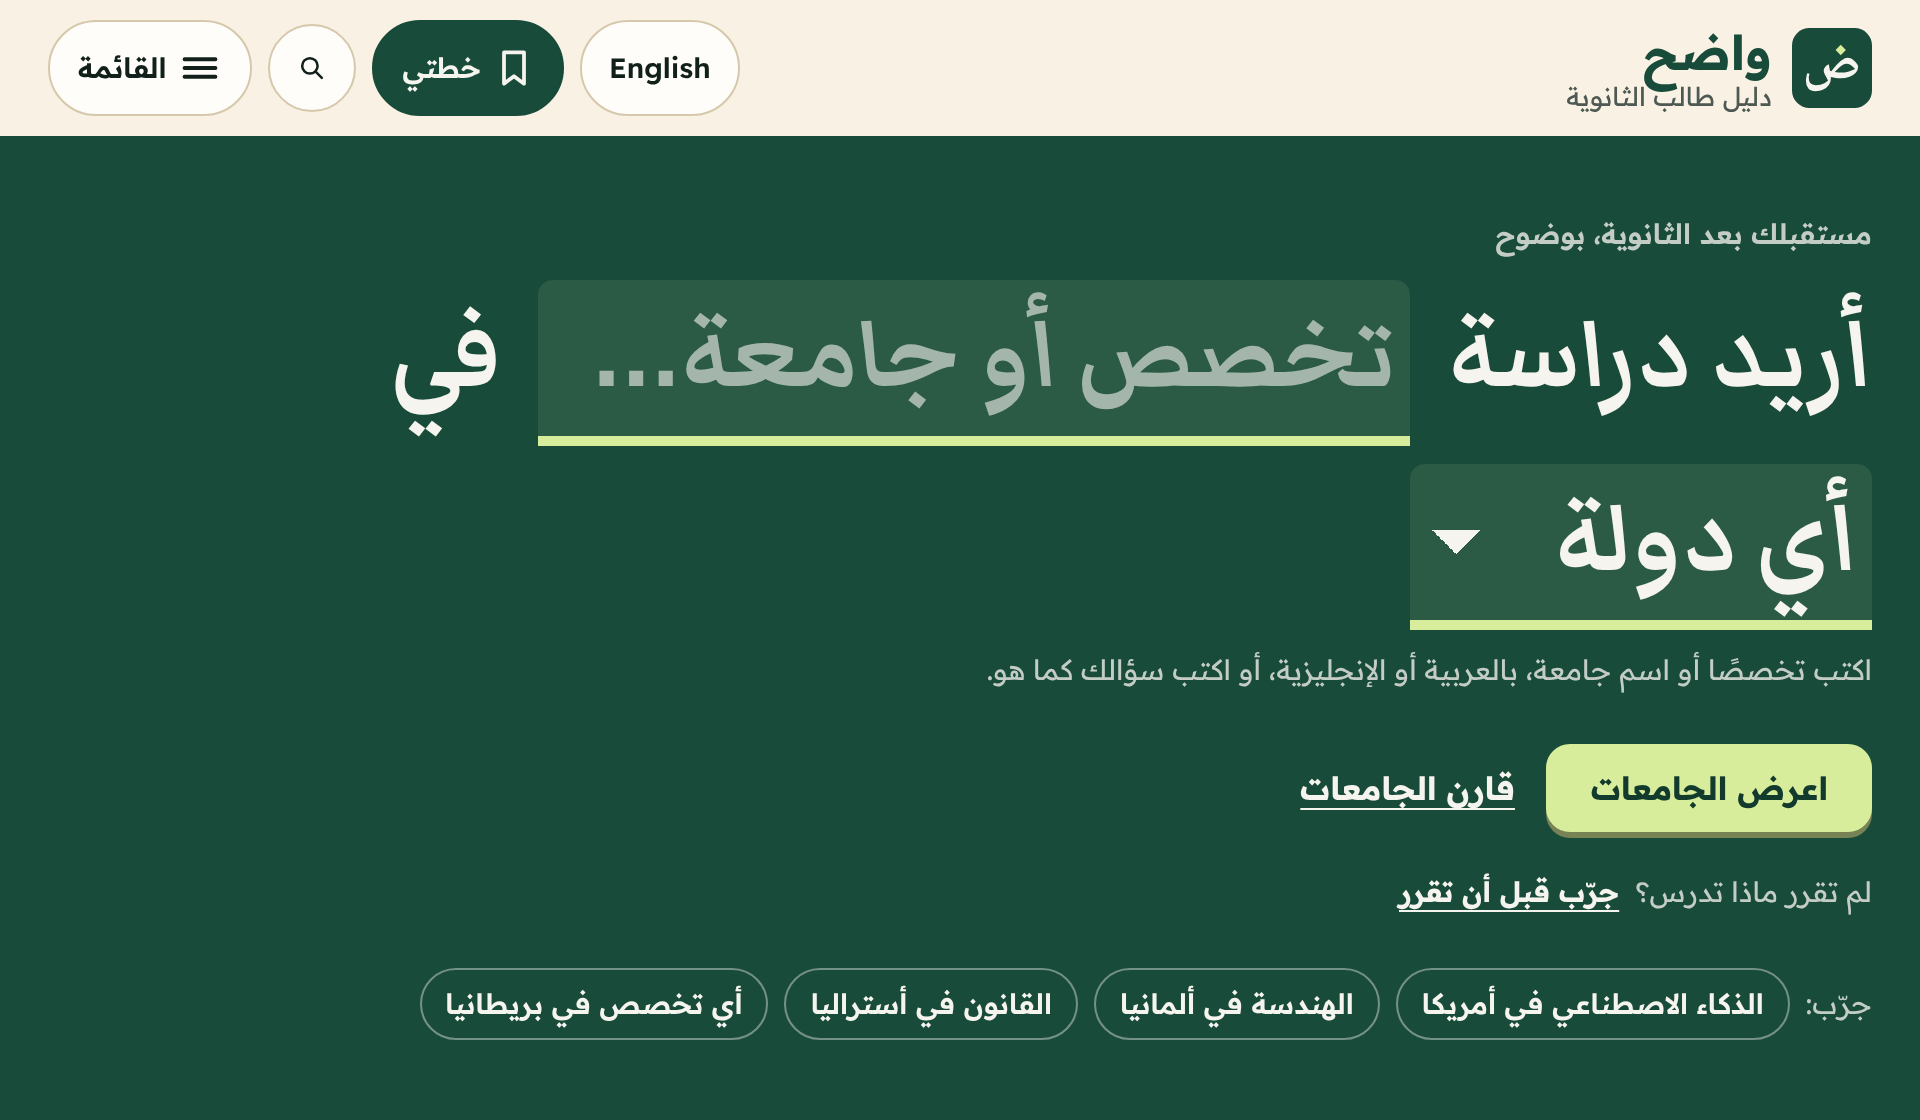
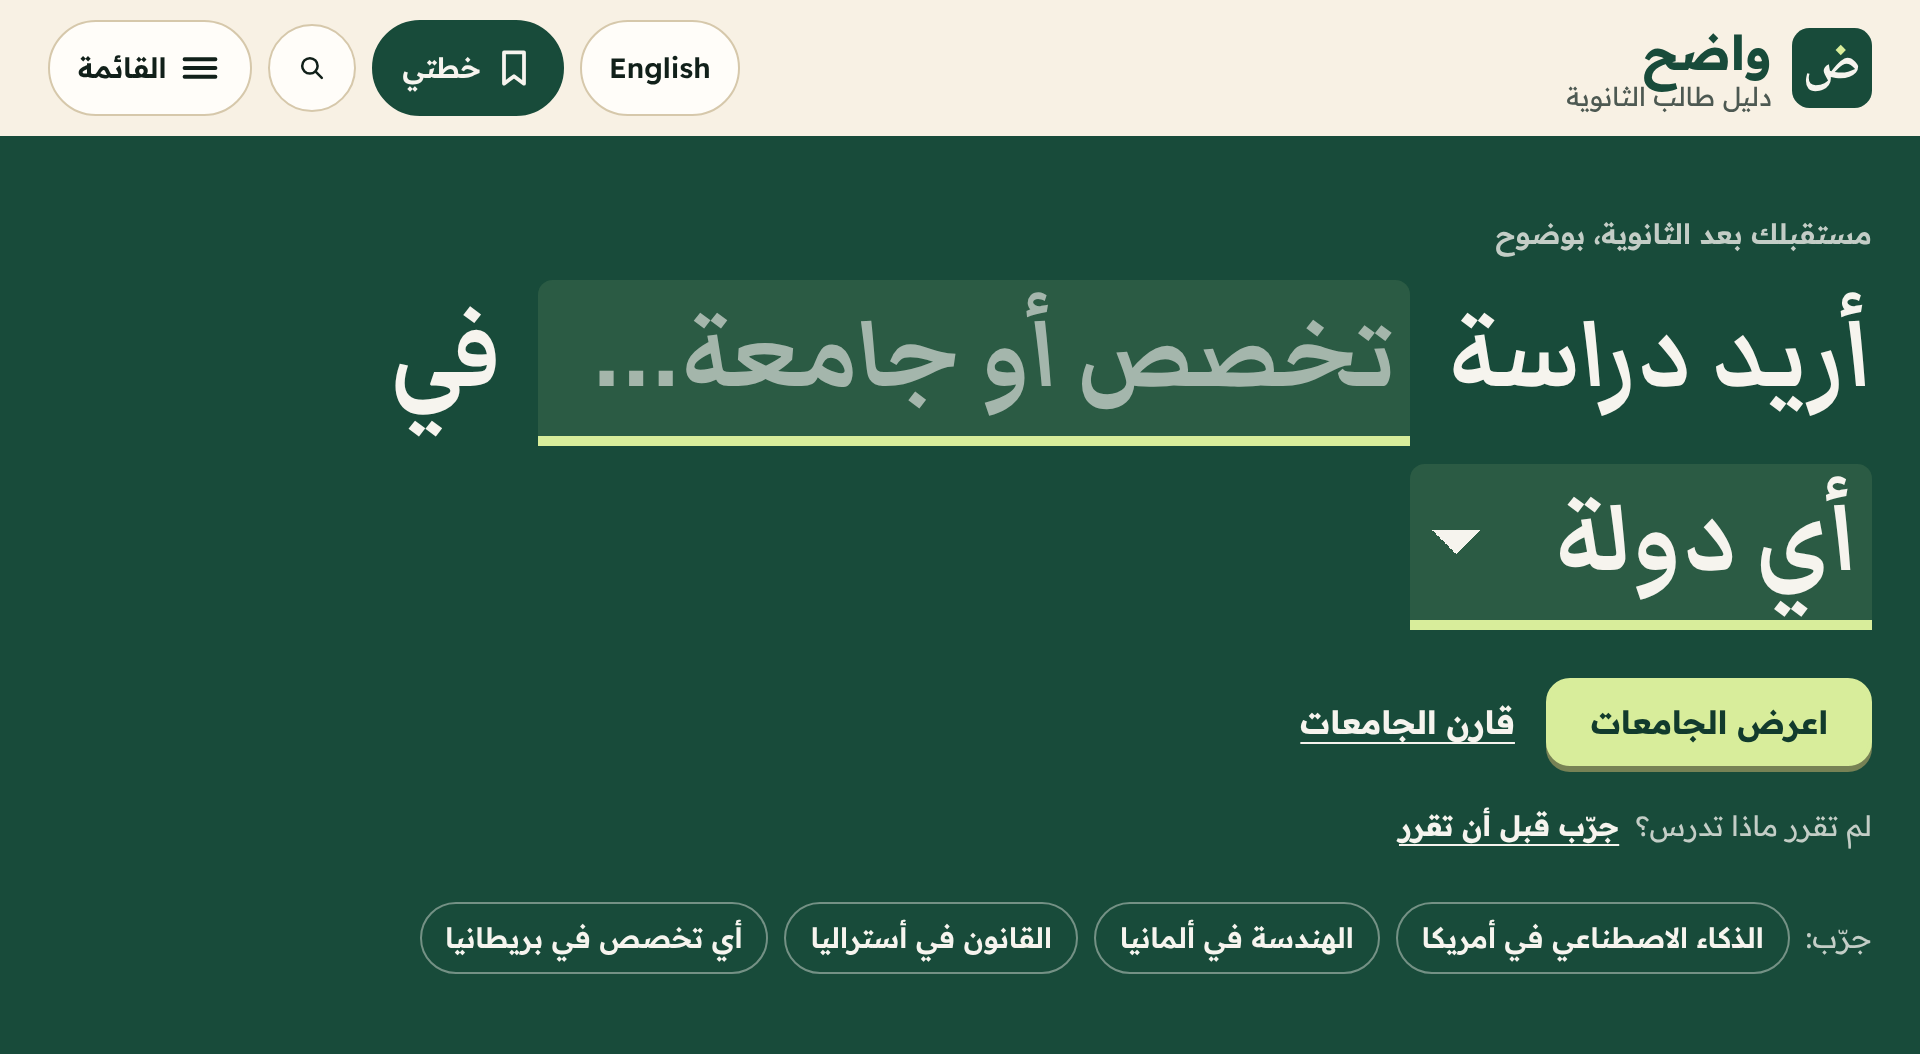
Remove the hint under the question «أريد دراسة … في …»
The owner asked for it gone: «اكتب تخصصًا أو اسم جامعة، بالعربية أو الإنجليزية،
أو اكتب سؤالك كما هو» under the sentence, on the homepage and in the Finder.
The box still says what to type (its placeholder «تخصص أو جامعة…» and its label
for screen readers). The README's homepage screenshot is retaken without it.

Claude-Session: https://claude.ai/code/session_01KDCVY2rmoRNLWhvaLTMEAE

diff --git a/app/templates/partials/ask.html b/app/templates/partials/ask.html
@@ -7,7 +7,7 @@
   ask_sentence(q, country, prefix): the sentence's two slots. The form around it is the page's (the homepage's
   live answer, the Finder's form with its filters).
 #}
-{% macro ask_sentence(q, country, prefix, hint=True) %}
+{% macro ask_sentence(q, country, prefix) %}
 <div class="ask-sentence" data-ask-sentence>
   <span class="ask-word" aria-hidden="true">{{ _("أريد دراسة") }}</span>
   <span class="ask-slot ask-slot--q">
@@ -16,7 +16,7 @@
     <input class="ask-input" id="{{ prefix }}q" name="q" type="search" value="{{ q }}" autocomplete="off" maxlength="100"
            spellcheck="false" enterkeyhint="search" placeholder="{{ _('تخصص أو جامعة…') }}"
            role="combobox" aria-autocomplete="list" aria-expanded="false" aria-controls="{{ prefix }}q-suggest"
-           {% if hint %}aria-describedby="{{ prefix }}q-hint"{% endif %} data-suggest="{{ url_for('suggestions_api') }}" data-ask-q>
+           data-suggest="{{ url_for('suggestions_api') }}" data-ask-q>
     <span class="ask-measure" aria-hidden="true" data-ask-measure></span>
     <div id="{{ prefix }}q-suggest" class="suggest" role="listbox" aria-label="{{ _('اقتراحات') }}" tabindex="-1" hidden></div>
   </span>
@@ -31,5 +31,4 @@
     </select>
   </span>
 </div>
-{% if hint %}<p class="ask-hint" id="{{ prefix }}q-hint">{{ _("اكتب تخصصًا أو اسم جامعة، بالعربية أو الإنجليزية، أو اكتب سؤالك كما هو.") }}</p>{% endif %}
 {% endmacro %}

diff --git a/app/static/style.css b/app/static/style.css
@@ -7031,12 +7031,6 @@ a.uni-name:hover .uni-name-en:only-child {
   line-height: 1.6;
 }
 
-.ask-hint {
-  margin: var(--space-2) 0 0;
-  font-size: var(--text-sm);
-  color: var(--ink-muted);
-}
-
 .ask-actions {
   display: flex;
   flex-wrap: wrap;
